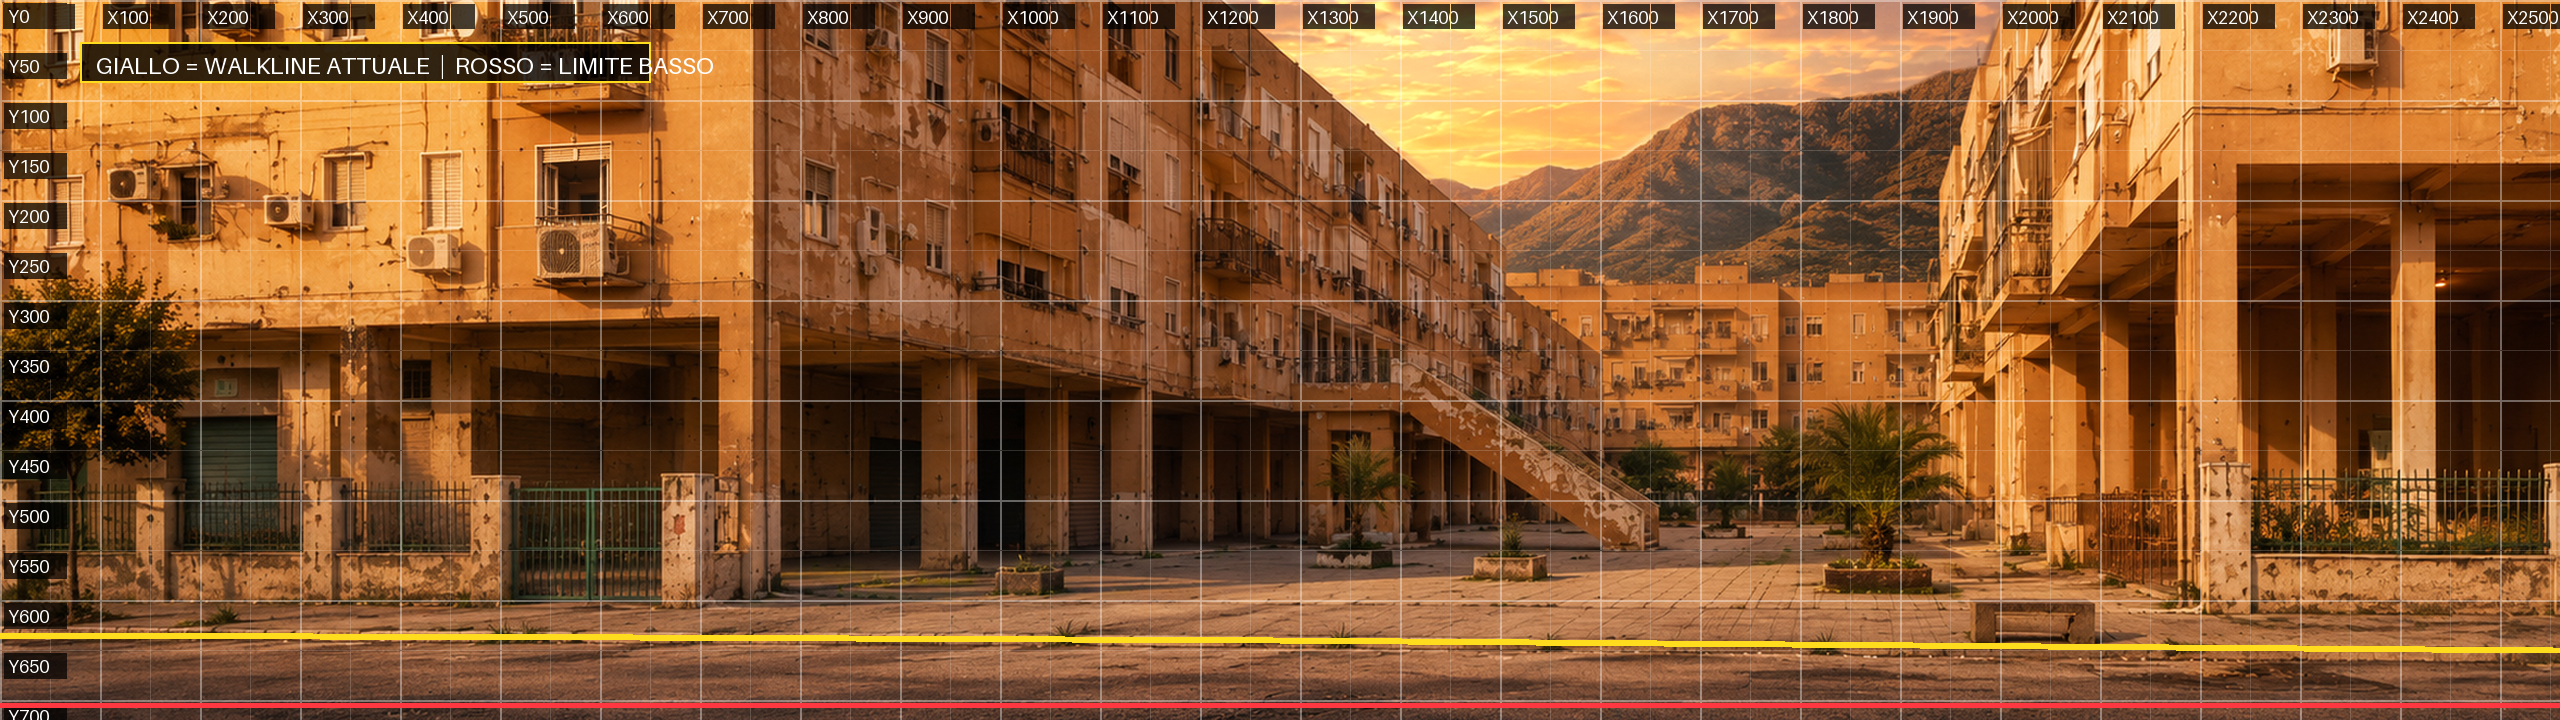
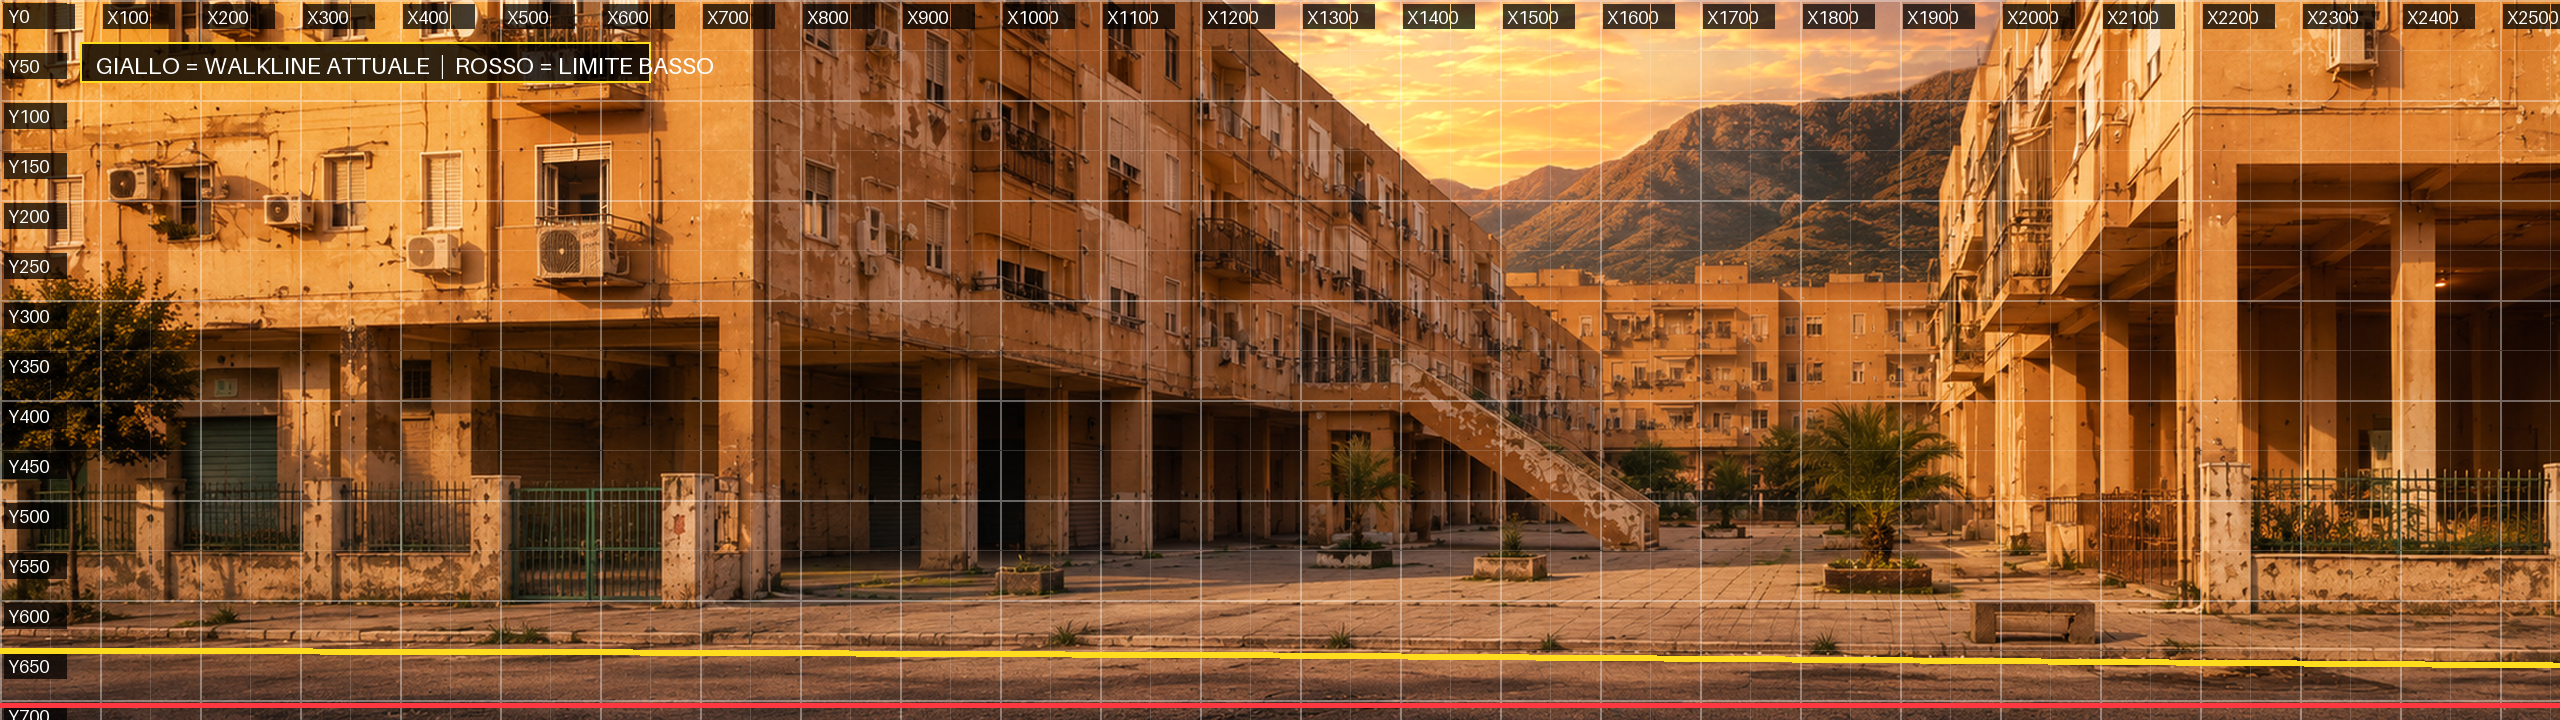
fix: lower M01 walkline to green trace

Changed region(s): [[0.0, 0.8556, 1.0, 0.9472]]

diff --git a/tests/stage-playfield.test.ts b/tests/stage-playfield.test.ts
@@ -68,13 +68,13 @@ test('Zen modules expose the authored Capcom-style depth lanes', () => {
   const m02 = stage.modules.find((module) => module.id === 'M02');
   const m03 = stage.modules.find((module) => module.id === 'M03');
   const m04 = stage.modules.find((module) => module.id === 'M04');
-  assert.deepEqual(m01?.playfield_y, [635, 705]);
+  assert.deepEqual(m01?.playfield_y, [650, 705]);
   assert.deepEqual(m02?.playfield_y, [515, 705]);
   assert.deepEqual(m03?.playfield_y, [475, 705]);
   assert.deepEqual(m04?.playfield_y, [510, 705]);
   assert.ok(m01 && m02 && m03 && m04);
-  assert.equal(m01.playfield_y[1] - m01.playfield_y[0], 70, 'M01 road lane must match the user-authored green line');
-  assert.deepEqual(m01.walk_top, [[0, 635], [640, 637], [1280, 640], [1920, 645], [2560, 650]]);
+  assert.equal(m01.playfield_y[1] - m01.playfield_y[0], 55, 'M01 road lane must match the user-authored green line');
+  assert.deepEqual(m01.walk_top, [[0, 650], [640, 652], [1280, 655], [1920, 660], [2560, 665]]);
   for (const module of [m02, m03, m04]) {
     assert.ok(module.playfield_y[1] - module.playfield_y[0] >= 190, `${module.id}: combat lane is too shallow`);
   }

diff --git a/tests/content-pipeline.test.ts b/tests/content-pipeline.test.ts
@@ -43,7 +43,7 @@ test('M01 integration preserves the approved street scale', () => {
   assert.equal(module.art_candidate.runtime_integration, true);
   assert.deepEqual(module.geometry.runtime_size, [2560, 720]);
   assert.equal(module.geometry.horizon_runtime_y, 315);
-  assert.equal(module.walk_band.top_runtime_y, 635);
+  assert.equal(module.walk_band.top_runtime_y, 650);
   assert.equal(module.walk_band.bottom_runtime_y, 705);
   assert.deepEqual(module.reference_actors.map((actor: { height_runtime: number }) => actor.height_runtime), [290, 290, 318]);
 });

diff --git a/tests/m01-encounter.test.ts b/tests/m01-encounter.test.ts
@@ -28,7 +28,7 @@ test('M01 teaches one-on-one combat before a restrained depth pincer', () => {
   assert.equal(pincer!.character, 'a_puaicca');
   assert.equal(pincer!.spawns.length, 2);
   assert.ok(pincer!.trigger_x - tutorial!.trigger_x >= 800);
-  assert.ok(Math.abs(pincer!.spawns[0]![1] - pincer!.spawns[1]![1]) >= 60);
+  assert.ok(Math.abs(pincer!.spawns[0]![1] - pincer!.spawns[1]![1]) >= 45);
   assert.ok(pincer!.health <= 64);
   assert.ok(pincer!.aggression <= 0.82);
   assert.equal(m01.waves.some((wave) => wave.boss === true), false);

diff --git a/docs/M01_ENCOUNTER_V1.md b/docs/M01_ENCOUNTER_V1.md
@@ -9,7 +9,7 @@ M01 introduce il combattimento senza diventare una stanza vuota o una prova di r
 1. Il tratto iniziale e libero da armi finche i protagonisti non dispongono di pose dedicate per presa e utilizzo.
 2. A `X=299` entra un Talebano singolo a `X=874, Y=675`. Questo insegna distanza, combo e presa senza pressione multipla.
 3. Dopo il primo KO, il tratto fino a `X=1320` crea una breve pausa e presenta il sacco distruttibile.
-4. La seconda ondata dispone due A' Puaicca a `X=1180, Y=640` e `X=1820, Y=705`: uno dietro e uno davanti al giocatore, separati anche in profondita.
+4. La seconda ondata dispone due A' Puaicca a `X=1180, Y=660` e `X=1820, Y=705`: uno dietro e uno davanti al giocatore, separati anche in profondita.
 5. Il bidone distruttibile a `X=1580` resta nella seconda arena e rilascia soltanto l'arancina curativa.
 6. Dopo i tre KO, l'uscita a `X=2510` porta a M02.
 
@@ -17,7 +17,7 @@ M01 introduce il combattimento senza diventare una stanza vuota o una prova di r
 
 - Due ondate, tre nemici totali, nessun boss.
 - Il primo scontro resta uno contro uno.
-- La seconda ondata deve avere almeno 60 px di separazione verticale fra gli spawn.
+- La seconda ondata deve avere almeno 45 px di separazione verticale fra gli spawn.
 - Salute e aggressivita della seconda ondata restano sotto i valori della precedente prova singola, per evitare attacchi simultanei oppressivi.
 - I trigger devono lasciare almeno 800 px fra l'introduzione e la tenaglia.
 - Bastoni, spranghe, tubi, mazze e lanciabili impugnabili restano fuori da M01 finche le pose dei protagonisti non sono approvate.

diff --git a/docs/STAGE1_WALK_BAND_AUDIT_2026-09-09.md b/docs/STAGE1_WALK_BAND_AUDIT_2026-09-09.md
@@ -8,7 +8,7 @@ L'overlay sui quattro MAIN effettivamente caricati mostrava fasce troppo basse r
 
 Le fasce runtime sono riallineate ai limiti già autorizzati nella calibrazione V3:
 
-- M01 strada/cortile: linea verde approvata `635 → 650`, con discesa prospettica graduale verso destra; limite anteriore `705` (55–70 px).
+- M01 strada/cortile: linea verde approvata `650 → 665`, con discesa prospettica graduale verso destra; limite anteriore `705` (40–55 px).
 - M02 cortile/porticato: `515–705` (190 px);
 - M03 campetto: `475–705` (230 px);
 - M04 ingresso: `510–705` (195 px, invariata).
@@ -19,7 +19,7 @@ M01 segue la linea indicata durante il test in gioco e resta interamente sulla c
 
 `tools/audit-stage-walk-bands.py` compone il MAIN con trasformazioni identiche al runtime, sovrappone area dei piedi e sagome attore da 290 px e genera `build/stage_walk_audit/stage1_walk_contact_sheet.jpg`. Richiede Pillow 11.3 o successivo; l'output è diagnostico e non modifica alcun PNG del gioco.
 
-I test bloccano la calibrazione verde tracciata sul fondale: M01 conserva 55–70 px e una lieve pendenza prospettica; M02–M04 almeno 190 px. La validazione geometrica continua a controllare ingressi, spawn, world width, camera e limiti 0–720.
+I test bloccano la calibrazione verde tracciata sul fondale: M01 conserva 40–55 px e una lieve pendenza prospettica; M02–M04 almeno 190 px. La validazione geometrica continua a controllare ingressi, spawn, world width, camera e limiti 0–720.
 
 ## Prossimo gate Stage 1
 
